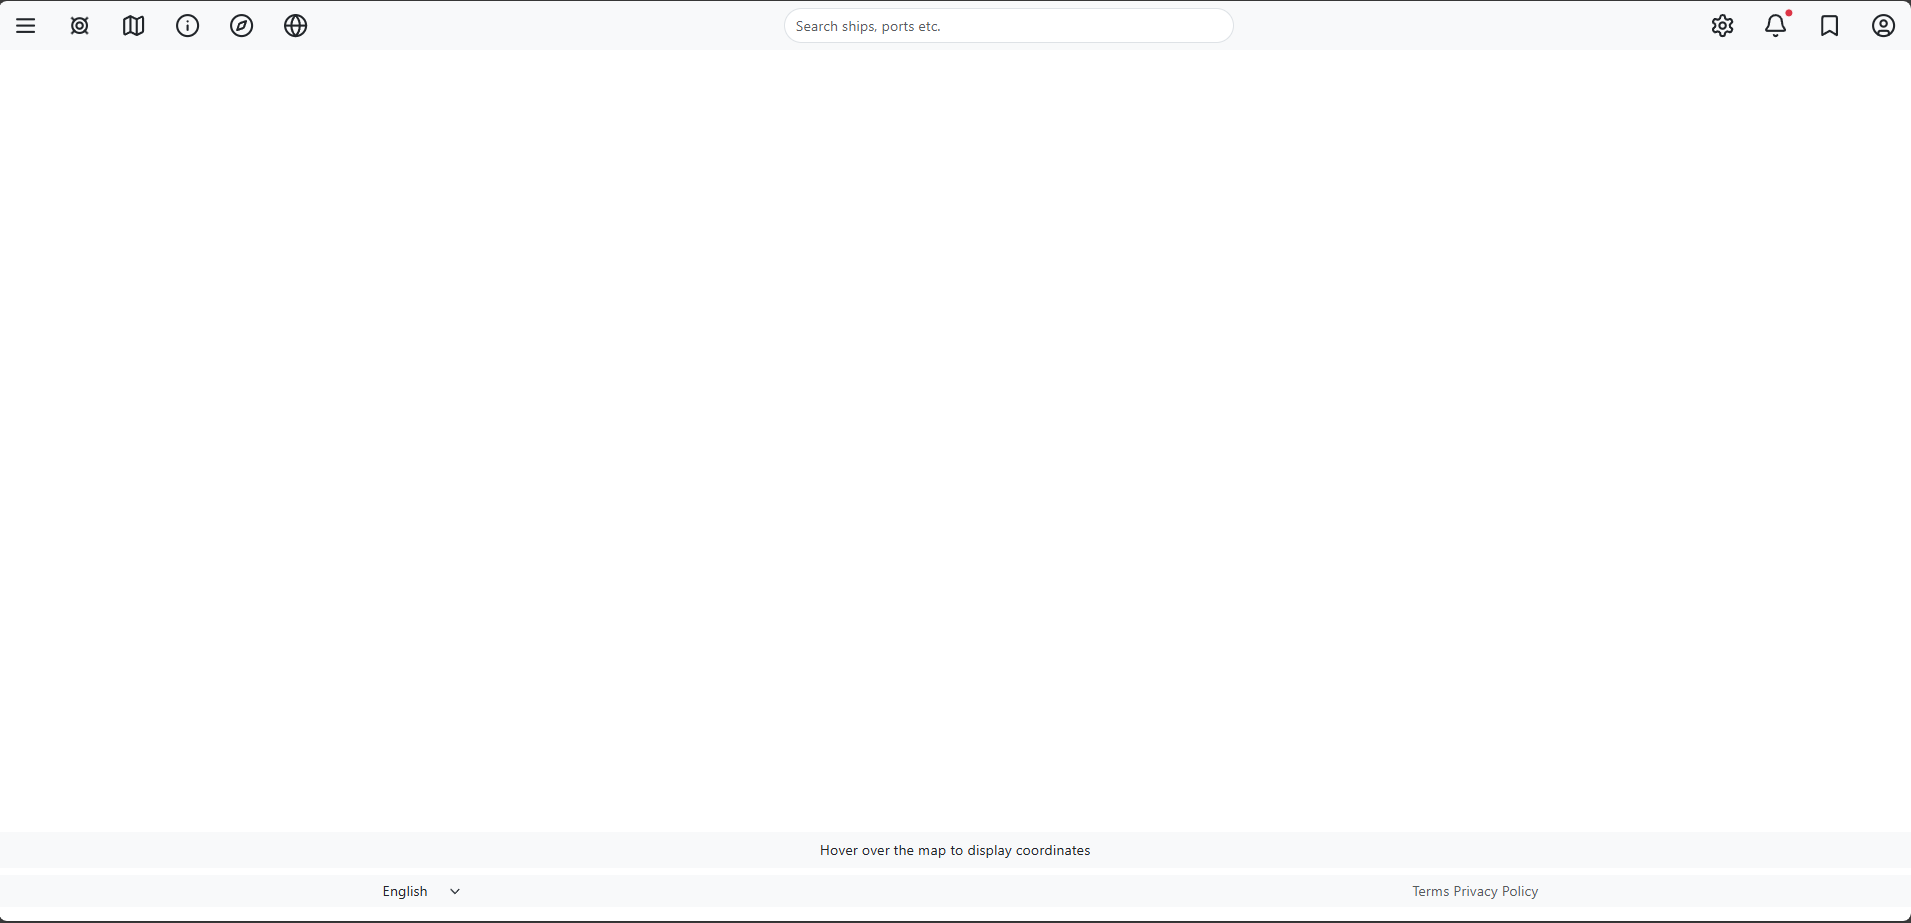
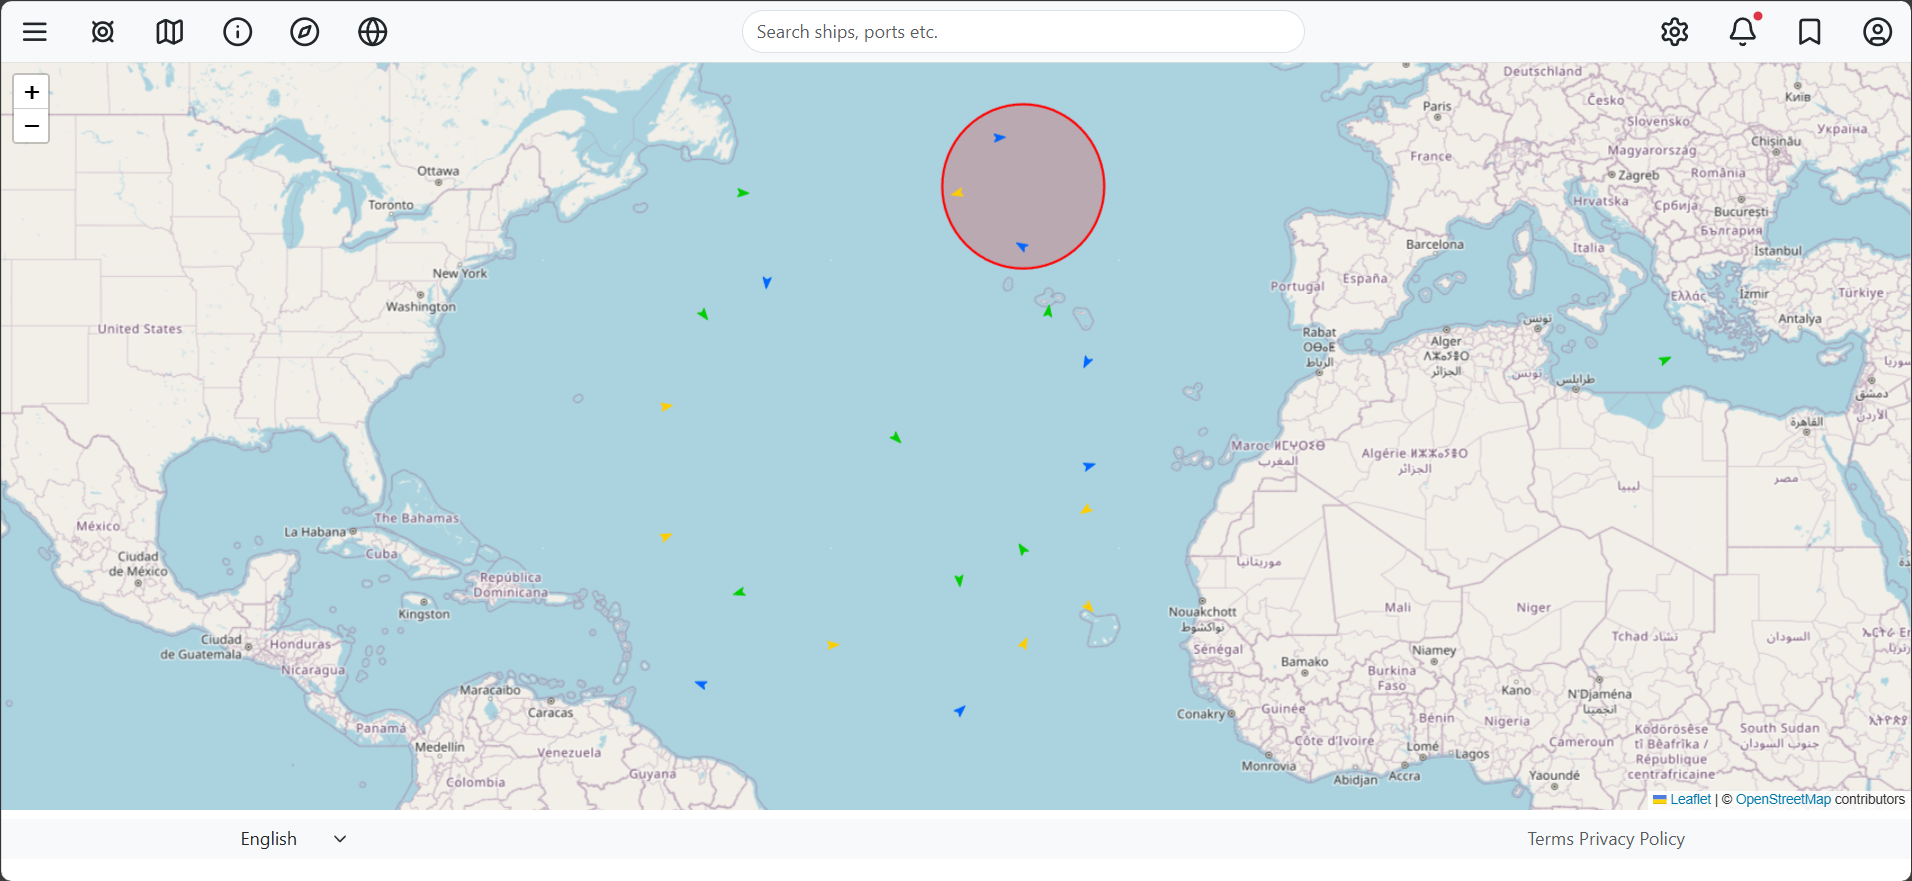
Fixed path bug, replaced index.png with the corrected one

diff --git a/static/index.html b/static/index.html
@@ -4,7 +4,7 @@
     <meta charset="UTF-8">
     <meta name="viewport" content="width=device-width, initial-scale=1.0">
     <title>AIS Tracking App</title>
-    <link rel="stylesheet" href="../css/styles.css">
+    <link rel="stylesheet" href="./css/styles.css">
     <link href="https://cdn.jsdelivr.net/npm/bootstrap@5.3.2/dist/css/bootstrap.min.css" rel="stylesheet" integrity="sha384-T3c6CoIi6uLrA9TneNEoa7RxnatzjcDSCmG1MXxSR1GAsXEV/Dwwykc2MPK8M2HN" crossorigin="anonymous">
     <link rel="stylesheet" href="https://cdnjs.cloudflare.com/ajax/libs/font-awesome/6.4.2/css/all.min.css">
     <!-- Leaflet CSS -->
@@ -102,10 +102,10 @@
     <div id="mapContainer" style="width: 100%; height: 85vh; position: relative; left: 0; right: 0;">
     </div>
     
-    <!-- Coordinate display container -->
+    <!-- Coordinate display container
     <div id="coordinates" class="text-center py-2 bg-light">
         Hover over the map to display coordinates
-    </div>
+    </div> -->
 
     <!-- Footer -->
     <footer class="bg-light mt-2">
@@ -135,7 +135,7 @@
     <script src="https://unpkg.com/leaflet@1.9.4/dist/leaflet.js"
     integrity="sha256-20nQCchB9co0qIjJZRGuk2/Z9VM+kNiyxNV1lvTlZBo="
     crossorigin=""></script>
-    <script src="../js/map.js"></script>
-    <script src="../js/tooltip.js"></script>
+    <script src="./js/map.js"></script>
+    <script src="./js/tooltip.js"></script>
 </body>
 </html>

diff --git a/static/html/user.html b/static/html/user.html
@@ -149,9 +149,9 @@
     </div>
     
     <!-- Coordinate display container -->
-    <div id="coordinates" class="text-center py-2 bg-light">
+    <!-- <div id="coordinates" class="text-center py-2 bg-light">
         Hover over the map to display coordinates
-    </div>
+    </div> -->
 
     <!-- Saved Vessels Container (Initially Hidden) -->
     <div id="savedVesselsContainer" class="saved-vessels-container">

diff --git a/static/html/admin.html b/static/html/admin.html
@@ -78,9 +78,9 @@
     </div>
     
     <!-- Coordinate display container -->
-    <div id="coordinates" class="text-center py-2 bg-light">
+    <!-- <div id="coordinates" class="text-center py-2 bg-light">
         Hover over the map to display coordinates
-    </div>
+    </div> -->
 
     <!-- Footer -->
     <footer class="bg-light mt-2">
